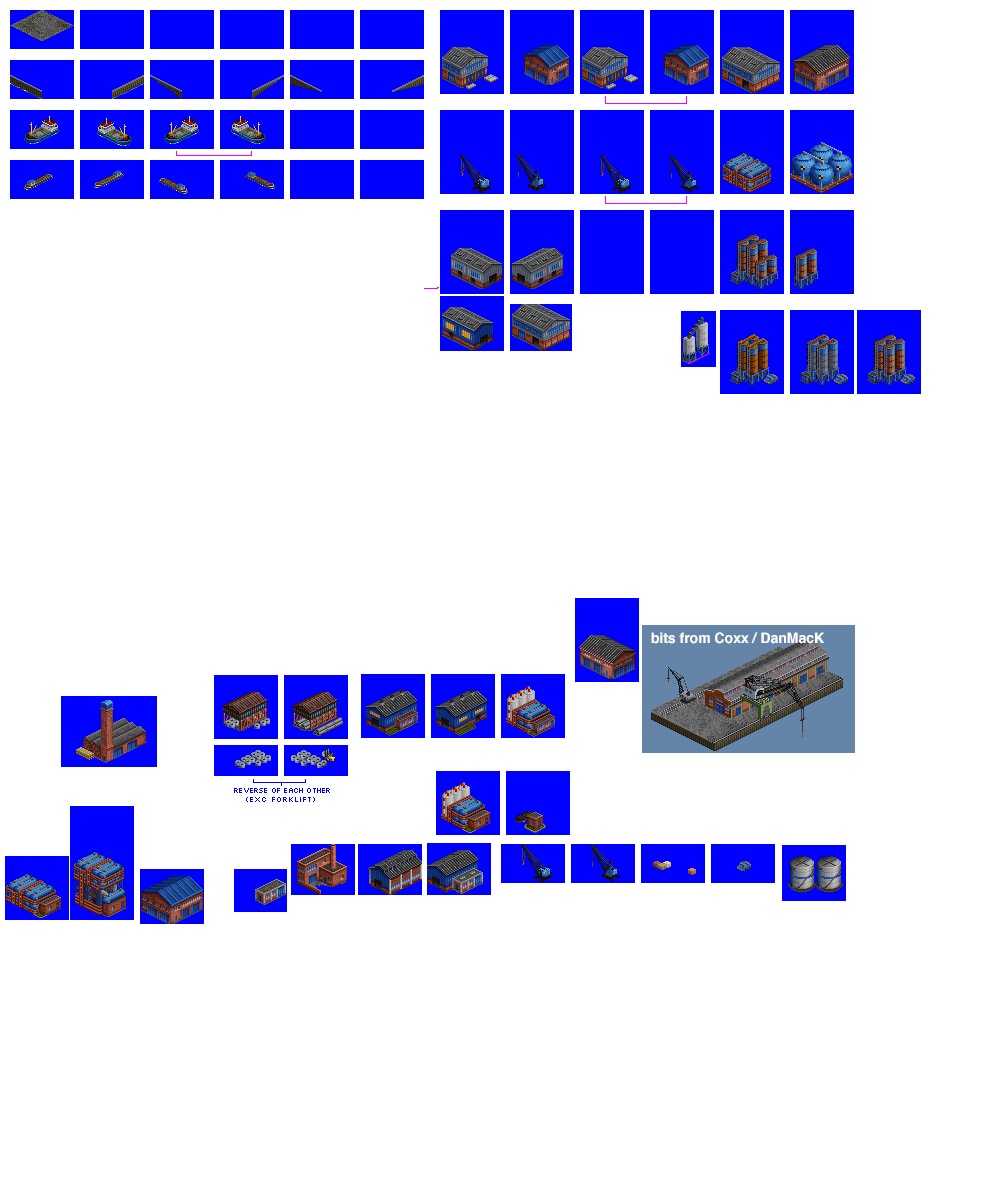
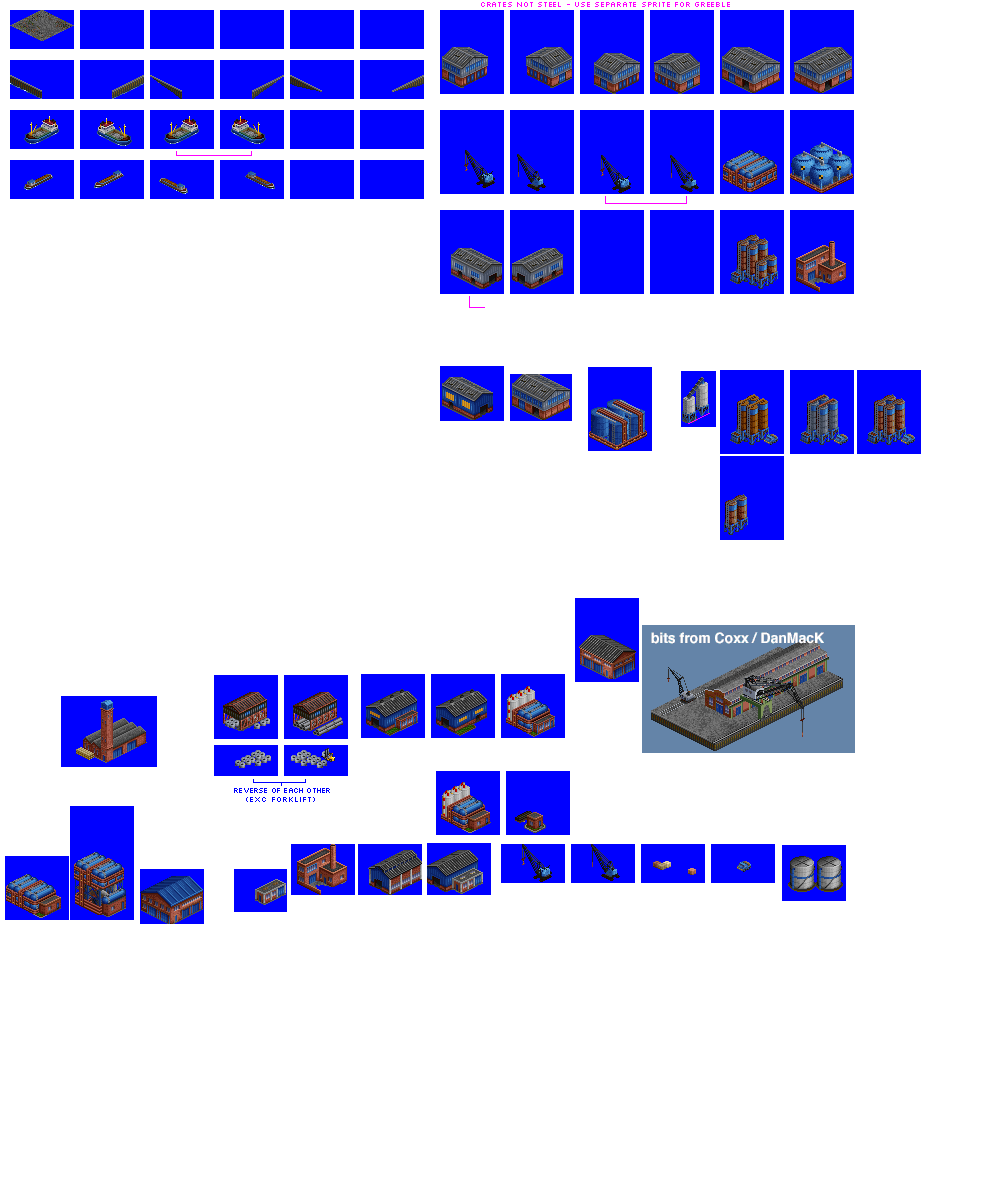
Change: sprites broadly complete for revised Port

diff --git a/src/industries/port.py b/src/industries/port.py
@@ -149,14 +149,50 @@ spriteset_warehouse_ne_sw = industry.add_spriteset(
 spriteset_shed_nw_se = industry.add_spriteset(
     sprites=[(440, 210, 64, 84, -31, -61)],
 )
-spriteset_tanks_small = industry.add_spriteset(
+spriteset_shed_ne_sw = industry.add_spriteset(
+    sprites=[(510, 210, 64, 84, -31, -61)],
+)
+# horizontal tanks use the same sprite, but adjusted offsets for each coast
+spriteset_tanks_horizontal_nw_se = industry.add_spriteset(
     sprites=[(720, 110, 64, 84, -31, -61)],
 )
-spriteset_tanks_sphere = industry.add_spriteset(
+spriteset_tanks_horizontal_ne_sw = industry.add_spriteset(
+    sprites=[(720, 110, 64, 84, -27, -61)],
+)
+spriteset_tanks_horizontal_se_nw = industry.add_spriteset(
+    sprites=[(720, 110, 64, 84, -30, -61)],
+)
+spriteset_tanks_horizontal_sw_ne = industry.add_spriteset(
+    sprites=[(720, 110, 64, 84, -28, -61)],
+)
+# sphere tanks use the same sprite, but adjusted offsets for each coast
+spriteset_tanks_sphere_nw_se = industry.add_spriteset(
     sprites=[(790, 110, 64, 84, -31, -61)],
 )
-spriteset_silos_1 = industry.add_spriteset(
+spriteset_tanks_sphere_ne_sw = industry.add_spriteset(
+    sprites=[(790, 110, 64, 84, -30, -61)],
+)
+spriteset_tanks_sphere_se_nw = industry.add_spriteset(
+    sprites=[(790, 110, 64, 84, -30, -61)],
+)
+spriteset_tanks_sphere_sw_ne = industry.add_spriteset(
+    sprites=[(790, 110, 64, 84, -31, -61)],
+)
+# sphere tanks use the same sprite, but adjusted offsets for each coast
+spriteset_silos_nw_se = industry.add_spriteset(
     sprites=[(720, 210, 64, 84, -31, -61)],
+)
+spriteset_silos_ne_sw = industry.add_spriteset(
+    sprites=[(720, 210, 64, 84, -31, -61)],
+)
+spriteset_silos_se_nw = industry.add_spriteset(
+    sprites=[(720, 210, 64, 84, -33, -60)],
+)
+spriteset_silos_sw_ne = industry.add_spriteset(
+    sprites=[(720, 210, 64, 84, -33, -60)],
+)
+spriteset_gatehouse = industry.add_spriteset(
+    sprites=[(790, 210, 64, 84, -31, -61)],
 )
 spriteset_crawler_crane_ne_sw = industry.add_spriteset(
     sprites=[(440, 110, 64, 84, -31, -43)],
@@ -202,11 +238,11 @@ industry.add_spritelayout(
 )
 industry.add_magic_spritelayout(
     type="jetty_coast_foundations",
-    base_id="port_spritelayout_coast_shed",
+    base_id="port_spritelayout_coast_gatehouse",
     tile="port_tile_2",
     config={
         "ground_sprite": spriteset_ground_empty,  # should always be empty for this magic spritelayout
-        "building_sprites": [spriteset_concrete, spriteset_shed_nw_se],
+        "building_sprites": [spriteset_concrete, spriteset_gatehouse],
         "foundation_sprites": {
             "ne_sw": spriteset_jetty_ne_sw,
             "se_nw": spriteset_jetty_se_nw,
@@ -275,16 +311,16 @@ industry.add_magic_spritelayout(
         "jetty_top_sprites": [spriteset_concrete],
         "building_sprites": {
             "se": [
-                spriteset_tanks_small,
+                spriteset_tanks_horizontal_nw_se,
             ],
             "sw": [
-                spriteset_tanks_small,
+                spriteset_tanks_horizontal_ne_sw,
             ],
             "nw": [
-                spriteset_tanks_small,
+                spriteset_tanks_horizontal_se_nw,
             ],
             "ne": [
-                spriteset_tanks_small,
+                spriteset_tanks_horizontal_sw_ne,
             ],
         },
     },
@@ -299,16 +335,16 @@ industry.add_magic_spritelayout(
         "jetty_top_sprites": [spriteset_concrete],
         "building_sprites": {
             "se": [
-                spriteset_tanks_sphere,
+                spriteset_tanks_sphere_nw_se,
             ],
             "sw": [
-                spriteset_tanks_sphere,
+                spriteset_tanks_sphere_ne_sw,
             ],
             "nw": [
-                spriteset_tanks_sphere,
+                spriteset_tanks_sphere_se_nw,
             ],
             "ne": [
-                spriteset_tanks_sphere,
+                spriteset_tanks_sphere_sw_ne,
             ],
         },
     },
@@ -323,16 +359,16 @@ industry.add_magic_spritelayout(
         "jetty_top_sprites": [spriteset_concrete],
         "building_sprites": {
             "se": [
-                spriteset_silos_1,
+                spriteset_silos_nw_se,
             ],
             "sw": [
-                spriteset_silos_1,
+                spriteset_silos_ne_sw,
             ],
             "nw": [
-                spriteset_silos_1,
+                spriteset_silos_se_nw,
             ],
             "ne": [
-                spriteset_silos_1,
+                spriteset_silos_sw_ne,
             ],
         },
     },
@@ -350,13 +386,13 @@ industry.add_magic_spritelayout(
                 spriteset_warehouse_half_nw_se,
             ],
             "sw": [
-                spriteset_warehouse_half_sw_ne,
+                spriteset_warehouse_half_ne_sw,
             ],
             "nw": [
                 spriteset_warehouse_half_se_nw,
             ],
             "ne": [
-                spriteset_warehouse_half_ne_sw,
+                spriteset_warehouse_half_sw_ne,
             ],
         },
     },
@@ -399,16 +435,16 @@ industry.add_magic_spritelayout(
                 spriteset_crawler_crane_nw_se,
             ],
             "sw": [
-                spriteset_shed_nw_se,
-                spriteset_crawler_crane_nw_se,
+                spriteset_shed_ne_sw,
+                spriteset_crawler_crane_ne_sw,
             ],
             "nw": [
                 spriteset_shed_nw_se,
                 spriteset_crawler_crane_nw_se,
             ],
             "ne": [
-                spriteset_shed_nw_se,
-                spriteset_crawler_crane_nw_se,
+                spriteset_shed_ne_sw,
+                spriteset_crawler_crane_ne_sw,
             ],
         },
     },
@@ -447,7 +483,7 @@ industry.add_industry_jetty_layout(
         (0, 5, "port_spritelayout_silos_1_auto_orient"),
         (0, 6, "port_spritelayout_warehouse_half_auto_orient"),
         (0, 7, "spritelayout_null_water"),
-        (1, 0, "port_spritelayout_coast_shed"),
+        (1, 0, "port_spritelayout_coast_gatehouse"),
         (1, 1, "port_spritelayout_warehouse_full_auto_orient"),
         (1, 2, "port_spritelayout_warehouse_half_auto_orient"),
         (1, 3, "port_spritelayout_warehouse_full_auto_orient"),
@@ -485,7 +521,7 @@ industry.add_industry_jetty_layout(
         (1, 5, "port_spritelayout_shed_auto_orient"),
         (1, 6, "port_spritelayout_shed_auto_orient"),
         (1, 7, "spritelayout_null_water"),
-        (2, 0, "port_spritelayout_coast_shed"),
+        (2, 0, "port_spritelayout_coast_gatehouse"),
         (2, 1, "port_spritelayout_warehouse_full_auto_orient"),
         (2, 2, "port_spritelayout_warehouse_half_auto_orient"),
         (2, 3, "port_spritelayout_warehouse_full_auto_orient"),
